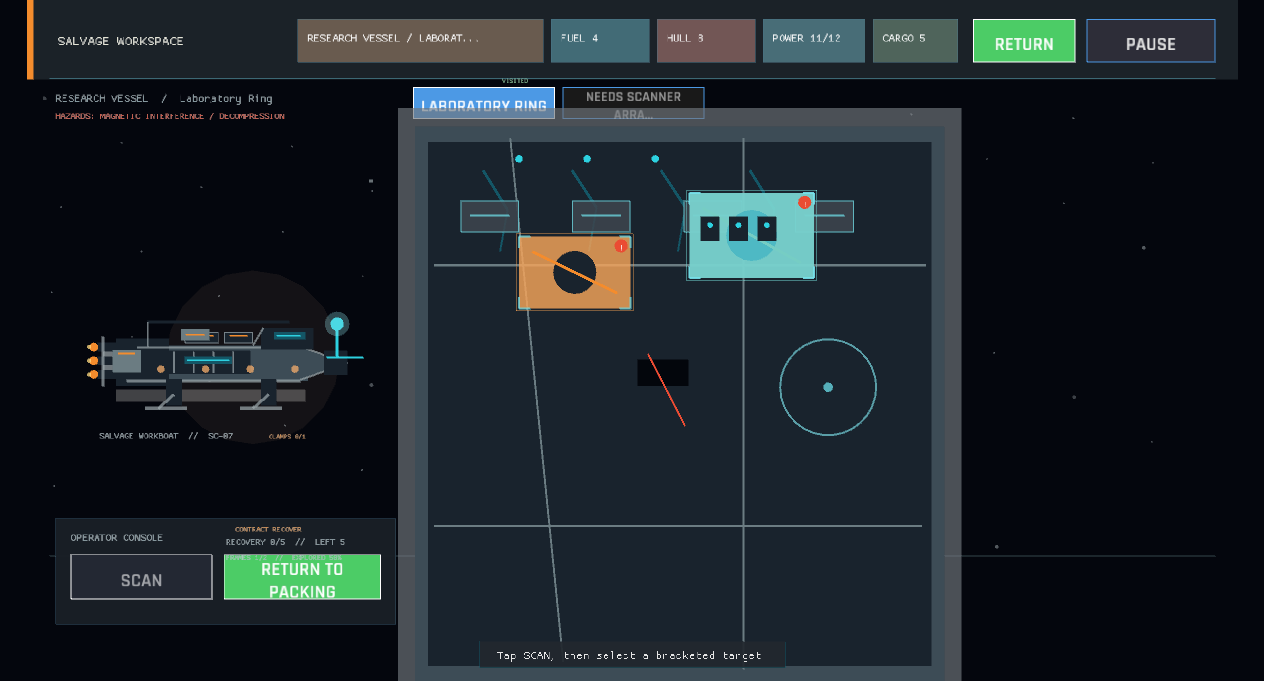
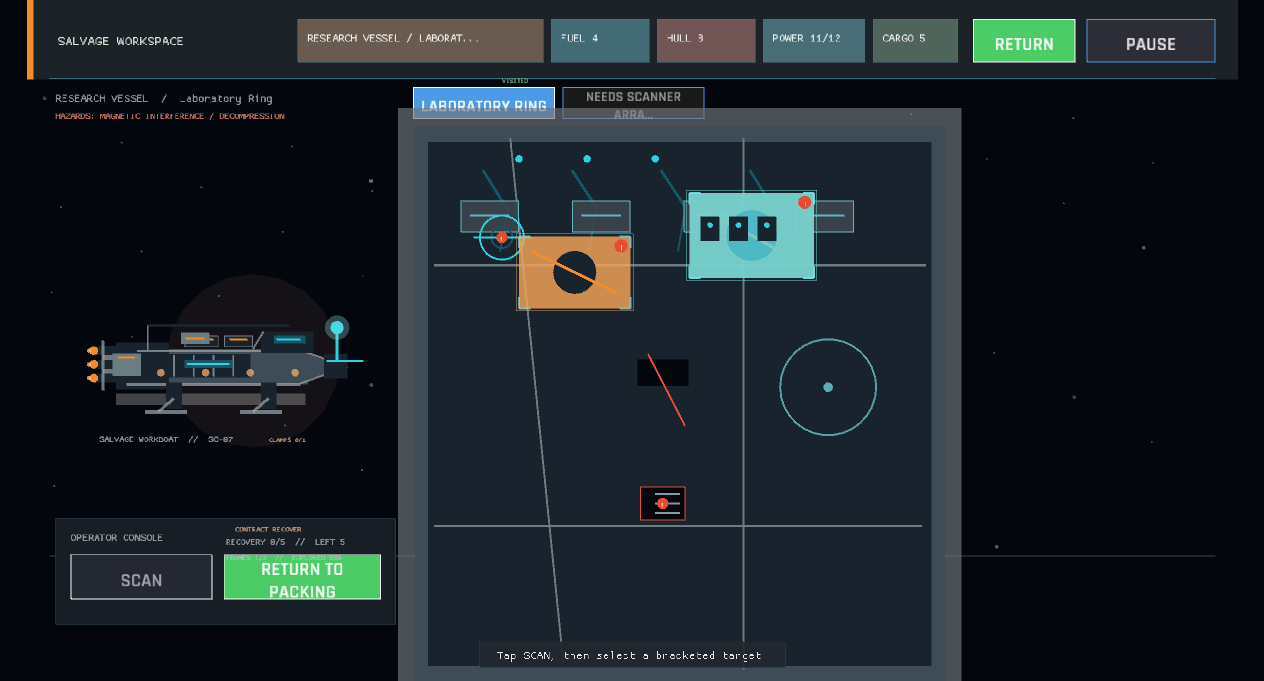
The wreck warns with the machinery that makes it dangerous (hazard-specific scene layer, GDD 6.6 and Phase 4)
Workspace hazard tags now drive visible, restrained geometry on the active wreck: electrical arcs, fuel pulses, decompression vents, moving debris, reactor instability, radiation rings, defense mounts, and magnetic fields. The layer remains presentation-only while the risk engine stays authoritative, and refreshed Merchant, Military, and Research captures verify distinct hazard signals.

Changed region(s): [[0.0617, 0.4626, 0.2777, 0.6476], [0.4937, 0.7093, 0.5554, 0.7709], [0.3703, 0.3084, 0.432, 0.37]]

diff --git a/src/ui/wreck_visual.rs b/src/ui/wreck_visual.rs
@@ -18,6 +18,7 @@ pub fn draw_wreck(
     extraction_target: Option<&str>,
     extraction_progress: f32,
     section_targets: &[String],
+    section_hazards: &[String],
 ) {
     let wreck = layout.wreck;
     let accent = visual_theme::site_accent(&site.visual_theme);
@@ -92,6 +93,7 @@ pub fn draw_wreck(
     draw_damage(wreck, &site.visual_theme);
     draw_pipes(wreck, elapsed, &site.visual_theme);
     draw_theme_details(wreck, &site.visual_theme, elapsed);
+    draw_hazard_details(wreck, section_hazards, elapsed);
     for target_id in section_targets {
         draw_target_mount(
             layout,
@@ -292,6 +294,192 @@ fn draw_research_details(wreck: Rect, elapsed: f32) {
         wreck.y + wreck.h * 0.47,
         5.0,
         instrument,
+    );
+}
+
+fn draw_hazard_details(wreck: Rect, hazard_tags: &[String], elapsed: f32) {
+    for (index, hazard) in hazard_tags.iter().enumerate() {
+        let x = wreck.x + 92.0 + index as f32 * 170.0;
+        let y = wreck.y + wreck.h * 0.2 + (index % 2) as f32 * wreck.h * 0.48;
+        match hazard.as_str() {
+            "electrical_arcs" => draw_electrical_hazard(x, y, elapsed),
+            "unstable_fuel" => draw_fuel_hazard(x, y, elapsed),
+            "decompression" => draw_decompression_hazard(x, y),
+            "moving_debris" => draw_debris_hazard(x, y, elapsed),
+            "reactor_instability" => draw_reactor_hazard(x, y, elapsed),
+            "radiation" => draw_radiation_hazard(x, y, elapsed),
+            "automated_defenses" => draw_defense_hazard(x, y),
+            "magnetic_interference" => draw_magnetic_hazard(x, y, elapsed),
+            _ => draw_generic_hazard(x, y),
+        }
+        draw_circle(x, y, 6.0, visual_theme::warning());
+        draw_text("!", x - 3.0, y + 4.0, 10.0, WHITE);
+    }
+}
+
+fn draw_electrical_hazard(x: f32, y: f32, elapsed: f32) {
+    let flicker = if (elapsed * 9.0).sin() > -0.2 {
+        visual_theme::cyan()
+    } else {
+        visual_theme::warning()
+    };
+    draw_line(x - 26.0, y - 34.0, x - 10.0, y - 12.0, 3.0, flicker);
+    draw_line(x - 10.0, y - 12.0, x - 20.0, y + 4.0, 3.0, flicker);
+    draw_line(x - 20.0, y + 4.0, x + 12.0, y + 28.0, 3.0, flicker);
+    draw_line(x + 12.0, y + 28.0, x + 24.0, y + 12.0, 2.0, flicker);
+}
+
+fn draw_fuel_hazard(x: f32, y: f32, elapsed: f32) {
+    let pulse = 16.0 + (elapsed * 3.0).sin().abs() * 6.0;
+    draw_circle_lines(x, y, pulse, 2.0, visual_theme::warning());
+    draw_circle(
+        x,
+        y,
+        9.0,
+        visual_theme::with_alpha(visual_theme::amber(), 0.7),
+    );
+    draw_line(
+        x - 22.0,
+        y + 20.0,
+        x + 22.0,
+        y + 20.0,
+        2.0,
+        visual_theme::amber(),
+    );
+}
+
+fn draw_decompression_hazard(x: f32, y: f32) {
+    draw_rectangle(x - 24.0, y - 18.0, 48.0, 36.0, visual_theme::space());
+    draw_rectangle_lines(x - 24.0, y - 18.0, 48.0, 36.0, 2.0, visual_theme::warning());
+    for index in 0..3 {
+        let offset = index as f32 * 10.0 - 10.0;
+        draw_line(
+            x - 8.0,
+            y + offset,
+            x + 18.0,
+            y + offset,
+            2.0,
+            visual_theme::text_dim(),
+        );
+    }
+}
+
+fn draw_debris_hazard(x: f32, y: f32, elapsed: f32) {
+    let angle = elapsed * 1.7;
+    let points = [
+        vec2(x + angle.cos() * 20.0, y + angle.sin() * 20.0),
+        vec2(x - angle.sin() * 14.0, y + angle.cos() * 14.0),
+        vec2(x - angle.cos() * 20.0, y - angle.sin() * 20.0),
+        vec2(x + angle.sin() * 14.0, y - angle.cos() * 14.0),
+    ];
+    for pair in points.windows(2) {
+        draw_line(
+            pair[0].x,
+            pair[0].y,
+            pair[1].x,
+            pair[1].y,
+            3.0,
+            visual_theme::amber(),
+        );
+    }
+    draw_line(
+        points[3].x,
+        points[3].y,
+        points[0].x,
+        points[0].y,
+        3.0,
+        visual_theme::amber(),
+    );
+}
+
+fn draw_reactor_hazard(x: f32, y: f32, elapsed: f32) {
+    let radius = 24.0 + (elapsed * 4.0).sin().abs() * 8.0;
+    draw_circle_lines(x, y, radius, 3.0, visual_theme::warning());
+    draw_circle_lines(x, y, radius * 0.55, 2.0, visual_theme::amber());
+    draw_line(x - radius, y, x + radius, y, 2.0, visual_theme::warning());
+    draw_line(x, y - radius, x, y + radius, 2.0, visual_theme::warning());
+}
+
+fn draw_radiation_hazard(x: f32, y: f32, elapsed: f32) {
+    let radius = 20.0 + (elapsed * 2.5).sin().abs() * 5.0;
+    draw_circle_lines(
+        x,
+        y,
+        radius,
+        2.0,
+        visual_theme::with_alpha(visual_theme::warning(), 0.72),
+    );
+    draw_circle_lines(
+        x,
+        y,
+        radius * 0.56,
+        2.0,
+        visual_theme::with_alpha(visual_theme::amber(), 0.78),
+    );
+    for index in 0..3 {
+        let angle = index as f32 * 2.1 + elapsed * 0.4;
+        draw_line(
+            x,
+            y,
+            x + angle.cos() * radius,
+            y + angle.sin() * radius,
+            2.0,
+            visual_theme::warning(),
+        );
+    }
+}
+
+fn draw_defense_hazard(x: f32, y: f32) {
+    draw_rectangle(
+        x - 22.0,
+        y - 14.0,
+        44.0,
+        28.0,
+        visual_theme::structure_dark(),
+    );
+    draw_rectangle_lines(x - 22.0, y - 14.0, 44.0, 28.0, 2.0, visual_theme::warning());
+    draw_circle(x, y, 6.0, visual_theme::warning());
+    draw_line(
+        x + 18.0,
+        y,
+        x + 48.0,
+        y - 22.0,
+        2.0,
+        visual_theme::warning(),
+    );
+}
+
+fn draw_magnetic_hazard(x: f32, y: f32, elapsed: f32) {
+    let radius = 19.0 + (elapsed * 2.0).sin().abs() * 8.0;
+    draw_circle_lines(x, y, radius, 2.0, visual_theme::cyan());
+    draw_circle_lines(x, y, radius * 0.45, 2.0, visual_theme::cyan_dim());
+    draw_line(
+        x - radius - 8.0,
+        y,
+        x + radius + 8.0,
+        y,
+        2.0,
+        visual_theme::cyan(),
+    );
+}
+
+fn draw_generic_hazard(x: f32, y: f32) {
+    draw_rectangle_lines(x - 18.0, y - 18.0, 36.0, 36.0, 2.0, visual_theme::warning());
+    draw_line(
+        x - 13.0,
+        y - 13.0,
+        x + 13.0,
+        y + 13.0,
+        2.0,
+        visual_theme::warning(),
+    );
+    draw_line(
+        x + 13.0,
+        y - 13.0,
+        x - 13.0,
+        y + 13.0,
+        2.0,
+        visual_theme::warning(),
     );
 }
 

diff --git a/src/ui/salvage_scene.rs b/src/ui/salvage_scene.rs
@@ -75,6 +75,7 @@ pub fn draw_salvage_workspace(ctx: &UiContext<'_>, actions: &mut Vec<UiAction>) 
         ctx.workspace_extraction_target,
         ctx.workspace_extraction_progress,
         section.map_or(&[], |value| value.candidate_targets.as_slice()),
+        section.map_or(&[], |value| value.hazard_tags.as_slice()),
     );
     ship_visual::draw_ship(
         layout.ship,
